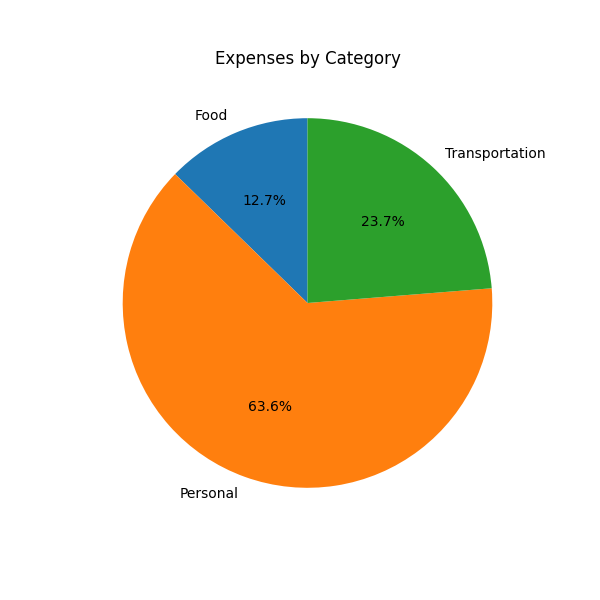
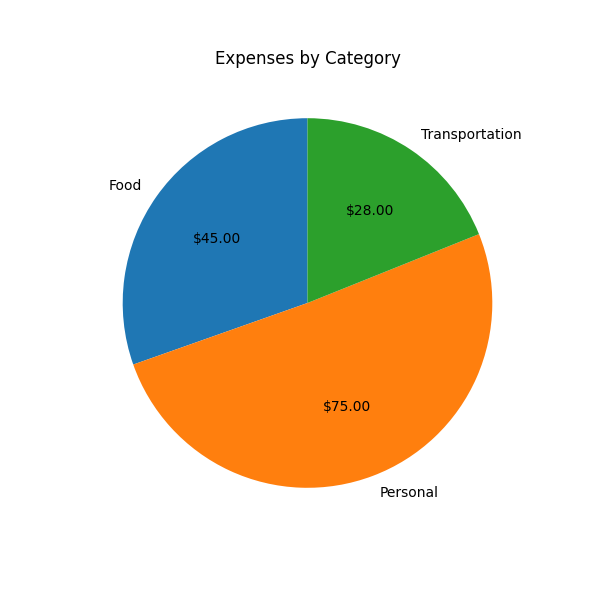
Updated Codebase

diff --git a/smartspendee/templates/view-expense.html b/smartspendee/templates/view-expense.html
@@ -1,34 +1,86 @@
 <!DOCTYPE html>
-<html>
-<link rel="stylesheet" href="{{ url_for('static', filename='style.css') }}">
+<html lang="en">
 <head>
-    <title>View Expenses</title>
+    <meta charset="UTF-8">
+    <title>View Expenses | SmartSpendee</title>
+    <link rel="stylesheet" href="{{ url_for('static', filename='style.css') }}">
+    <style>
+        body {
+            font-family: Arial, sans-serif;
+            background-color: #f4f4f9;
+            display: flex;
+            flex-direction: column;
+            align-items: center;
+            padding: 2rem;
+        }
+
+        .container {
+            background: white;
+            padding: 2rem;
+            border-radius: 12px;
+            box-shadow: 0 4px 20px rgba(0, 0, 0, 0.1);
+            width: 90%;
+            max-width: 800px;
+        }
+
+        h2 {
+            text-align: center;
+            margin-bottom: 1rem;
+        }
+
+        table {
+            width: 100%;
+            border-collapse: collapse;
+            margin-bottom: 2rem;
+        }
+
+        table, th, td {
+            border: 1px solid #ccc;
+        }
+
+        th, td {
+            padding: 0.75rem;
+            text-align: center;
+        }
+
+        img {
+            display: block;
+            margin: 0 auto 2rem auto;
+            max-width: 100%;
+            height: auto;
+        }
+
+        a {
+            text-decoration: none;
+            color: #4CAF50;
+            font-weight: bold;
+            display: inline-block;
+            text-align: center;
+        }
+    </style>
 </head>
-
-</style>
 <body>
-    <h2>Expense Records</h2>
-    <table border="1" cellpadding="5">
-        <tr>
-            <th>Item</th>
-            <th>Amount</th>
-            <th>Category</th>
-        </tr>
-        {% for expense in expenses %}
-        <tr>
-            <td>{{ expense['Item'] }}</td>
-            <td>${{ expense['Amount'] }}</td>
-            <td>{{ expense['Category'] }}</td>
-        </tr>
-        {% endfor %}
-    </table>
+    <div class="container">
+        <h2>Expense Records</h2>
+        <table>
+            <tr>
+                <th>Item</th>
+                <th>Amount</th>
+                <th>Category</th>
+            </tr>
+            {% for expense in expenses %}
+            <tr>
+                <td>{{ expense['Item'] }}</td>
+                <td>${{ expense['Amount'] }}</td>
+                <td>{{ expense['Category'] }}</td>
+            </tr>
+            {% endfor %}
+        </table>
 
-    <hr>
+        <h2>Expenses by Category</h2>
+        <img src="{{ chart_url }}" alt="Pie Chart of Expenses">
 
-    <h2>Expenses by Category</h2>
-    <img src="{{ chart_url }}" alt="Pie Chart of Expenses">
-
-    <br><br>
-    <a href="/">⬅ Back to Home</a>
+        <a href="{{ url_for('home') }}">⬅ Back to Home</a>
+    </div>
 </body>
 </html>

diff --git a/smartspendee/templates/add-expense.html b/smartspendee/templates/add-expense.html
@@ -1,19 +1,75 @@
 <!DOCTYPE html>
-<html>
+<html lang="en">
+<head>
+    <meta charset="UTF-8">
+    <title>Add Expense | SmartSpendee</title>
+    <link rel="stylesheet" href="{{ url_for('static', filename='style.css') }}">
+    <style>
+        body {
+            font-family: Arial, sans-serif;
+            background-color: #f4f4f9;
+            display: flex;
+            justify-content: center;
+            align-items: center;
+            height: 100vh;
+        }
+        .form-container {
+            background: white;
+            padding: 2rem;
+            border-radius: 12px;
+            box-shadow: 0 4px 20px rgba(0, 0, 0, 0.1);
+            width: 300px;
+        }
+        .form-container label {
+            display: block;
+            margin-bottom: 0.3rem;
+            font-weight: bold;
+        }
+        .form-container input[type="text"],
+        .form-container input[type="number"] {
+            width: 100%;
+            padding: 0.5rem;
+            margin-bottom: 1rem;
+            border-radius: 6px;
+            border: 1px solid #ccc;
+        }
+        .form-container input[type="submit"] {
+            background-color: #4CAF50;
+            color: white;
+            padding: 0.5rem 1rem;
+            border: none;
+            border-radius: 6px;
+            cursor: pointer;
+            width: 100%;
+        }
+        .form-container input[type="submit"]:hover {
+            background-color: #45a049;
+        }
+        .form-container a {
+            display: block;
+            margin-top: 1rem;
+            text-align: center;
+            text-decoration: none;
+            color: #555;
+        }
+    </style>
+</head>
+<body>
+    <div class="form-container">
+        <form method="POST">
+            <label for="item">Item:</label>
+            <input type="text" name="item" id="item" required>
 
-<form method="POST">
-    <label>Item:</label><br>
-    <input type="text" name="item" required><br><br>
+            <label for="amount">Amount:</label>
+            <input type="number" name="amount" id="amount" step="0.01" required>
 
-    <label>Amount:</label><br>
-    <input type="number" name="amount" step="0.01" required><br><br>
+            <label for="category">Category:</label>
+            <input type="text" name="category" id="category" required>
 
-    <label>Category:</label><br>
-    <input type="text" name="category" required><br><br>
+            <input type="submit" value="Add Expense">
+        </form>
 
-    <input type="submit" value="Add Expense">
-</form>
-
-<br><br>
-    <a href="/">⬅ Back to Home</a>
-<html>
+        <a href="/">⬅ Back to Home</a>
+    </div>
+</body>
+</html>

diff --git a/smartspendee/templates/add-income.html b/smartspendee/templates/add-income.html
@@ -1,18 +1,77 @@
 <!DOCTYPE html>
-<html>
+<html lang="en">
 <head>
-    <title>Add Income</title>
-</head>
+    <meta charset="UTF-8">
+    <title>Add Income | SmartSpendee</title>
+    <link rel="stylesheet" href="{{ url_for('static', filename='style.css') }}">
+    <style>
+        body {
+            font-family: Arial, sans-serif;
+            background-color: #f4f4f9;
+            display: flex;
+            justify-content: center;
+            align-items: center;
+            height: 100vh;
+        }
 
+        .menu-container {
+            background: white;
+            padding: 2rem;
+            border-radius: 12px;
+            box-shadow: 0 4px 20px rgba(0, 0, 0, 0.1);
+            width: 320px;
+            text-align: center;
+        }
+
+        .menu-container label {
+            display: block;
+            margin-bottom: 0.5rem;
+            font-weight: bold;
+        }
+
+        .menu-container input[type="number"] {
+            width: 100%;
+            padding: 0.5rem;
+            margin-bottom: 1rem;
+            border-radius: 6px;
+            border: 1px solid #ccc;
+        }
+
+        .menu-container button {
+            background-color: #4CAF50;
+            color: white;
+            border: none;
+            padding: 0.5rem 1rem;
+            border-radius: 6px;
+            cursor: pointer;
+            width: 100%;
+        }
+
+        .menu-container button:hover {
+            background-color: #45a049;
+        }
+
+        .menu-container a {
+            display: block;
+            margin-top: 1rem;
+            color: #555;
+            text-decoration: none;
+        }
+
+        .menu-container h2 {
+            margin-bottom: 1rem;
+        }
+    </style>
+</head>
 <body>
     <div class="menu-container">
-    <h2>Add Monthly Income</h2>
-    <form method="POST">
-        <label for="income">Enter Monthly Income ($):</label>
-        <input type="number" step="0.01" name="income" required>
-        <button type="submit">Submit</button>
-    </form>
-        <p><a href="{{ url_for('home') }}">← Back to Home</a></p>
+        <h2>Add Monthly Income</h2>
+        <form method="POST">
+            <label for="income">Enter Monthly Income ($):</label>
+            <input type="number" step="0.01" name="income" id="income" required>
+            <button type="submit">Submit</button>
+        </form>
+        <a href="{{ url_for('home') }}">← Back to Home</a>
     </div>
 </body>
 </html>

diff --git a/smartspendee/templates/confirm-expenses.html b/smartspendee/templates/confirm-expenses.html
@@ -1,0 +1,55 @@
+<!DOCTYPE html>
+<html lang="en">
+<head>
+    <meta charset="UTF-8">
+    <title>Expense Saved | SmartSpendee</title>
+    <link rel="stylesheet" href="{{ url_for('static', filename='style.css') }}">
+    <style>
+        body {
+            font-family: Arial, sans-serif;
+            background-color: #f4f4f9;
+            display: flex;
+            justify-content: center;
+            align-items: center;
+            height: 100vh;
+        }
+
+        .container {
+            background: white;
+            padding: 2rem 3rem;
+            border-radius: 12px;
+            box-shadow: 0 4px 20px rgba(0, 0, 0, 0.1);
+            text-align: center;
+            max-width: 400px;
+        }
+
+        h3 {
+            color: #4CAF50;
+            margin-bottom: 1rem;
+        }
+
+        a.button {
+            display: inline-block;
+            margin: 0.5rem 0;
+            padding: 0.5rem 1rem;
+            background-color: #4CAF50;
+            color: white;
+            text-decoration: none;
+            border-radius: 8px;
+            transition: background-color 0.3s ease;
+        }
+
+        a.button:hover {
+            background-color: #45a049;
+        }
+    </style>
+</head>
+<body>
+    <div class="container">
+        <h3>Expense Saved!</h3>
+        <p>Would you like to add another expense?</p>
+        <a href="/add-expense" class="button">Add Another Expense</a><br>
+        <a href="/" class="button">Back to Home Page</a>
+    </div>
+</body>
+</html>

diff --git a/smartspendee/features.py b/smartspendee/features.py
@@ -35,7 +35,10 @@ def getExpenses():
     return df.to_dict(orient="records")
 
 def generate_pie_chart_by_category(output_path="static/pie_chart.png"):
-    
+    import matplotlib.pyplot as plt
+    import pandas as pd
+    import os
+
     csv_file = "data/smartspendee.csv"
 
     if not os.path.exists(csv_file) or os.path.getsize(csv_file) == 0:
@@ -46,10 +49,13 @@ def generate_pie_chart_by_category(output_path="static/pie_chart.png"):
     category_totals = df.groupby("Category")["Amount"].sum()
 
     plt.figure(figsize=(6, 6))
-    category_totals.plot.pie(autopct='%1.1f%%', startangle=90)
+    category_totals.plot.pie(
+        autopct=lambda p: f"${p * category_totals.sum() / 100:.2f}",
+        startangle=90
+    )
     plt.ylabel("")  # Hide y-label
     plt.title("Expenses by Category")
-    
+
     os.makedirs("static", exist_ok=True)
     plt.savefig(output_path)
     plt.close()

diff --git a/smartspendee/app.py b/smartspendee/app.py
@@ -30,12 +30,7 @@ def add_expense():
 
 @app.route("/add-expense/confirm")
 def add_expense_confirm():
-    return '''
-        <h3>Expense saved!</h3>
-        <p>Would you like to add another expense?</p>
-        <a href="/add-expense">Add another expense</a><br>
-        <a href="/">Back to home page</a>
-    '''
+    return render_template("confirm-expenses.html")
 
 @app.route("/view-expense", methods=["GET"])
 def view_expense():
